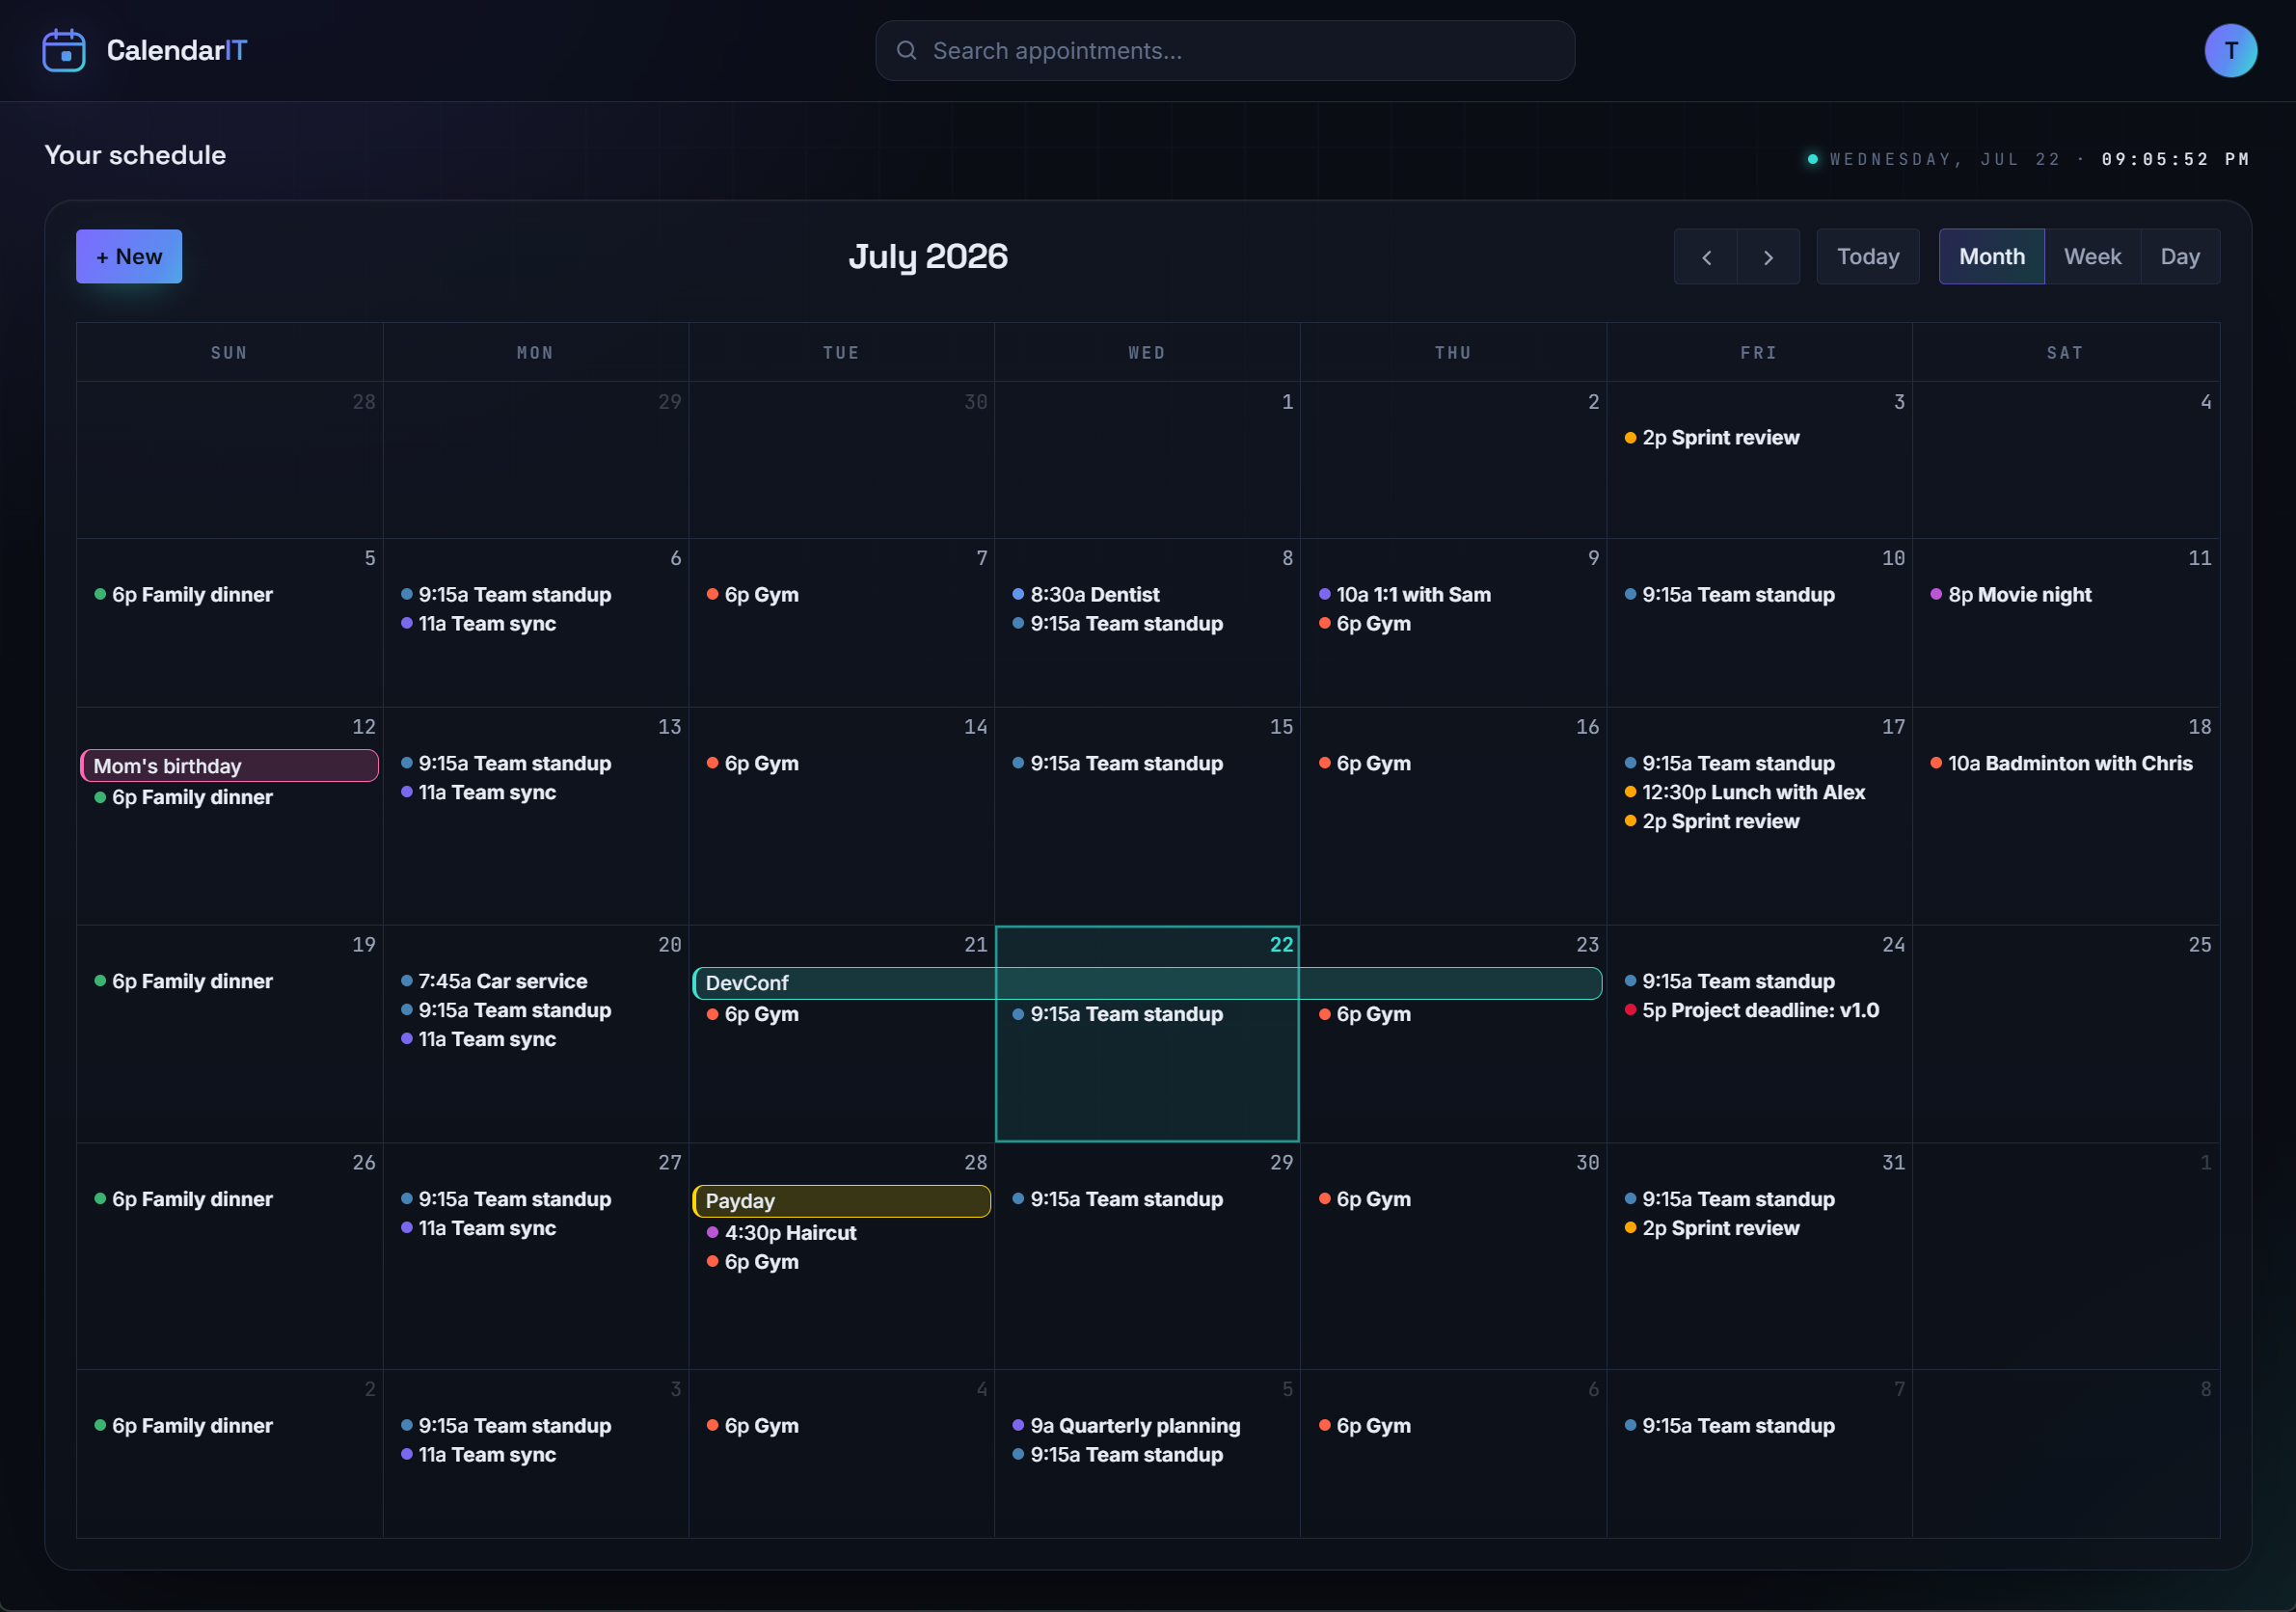
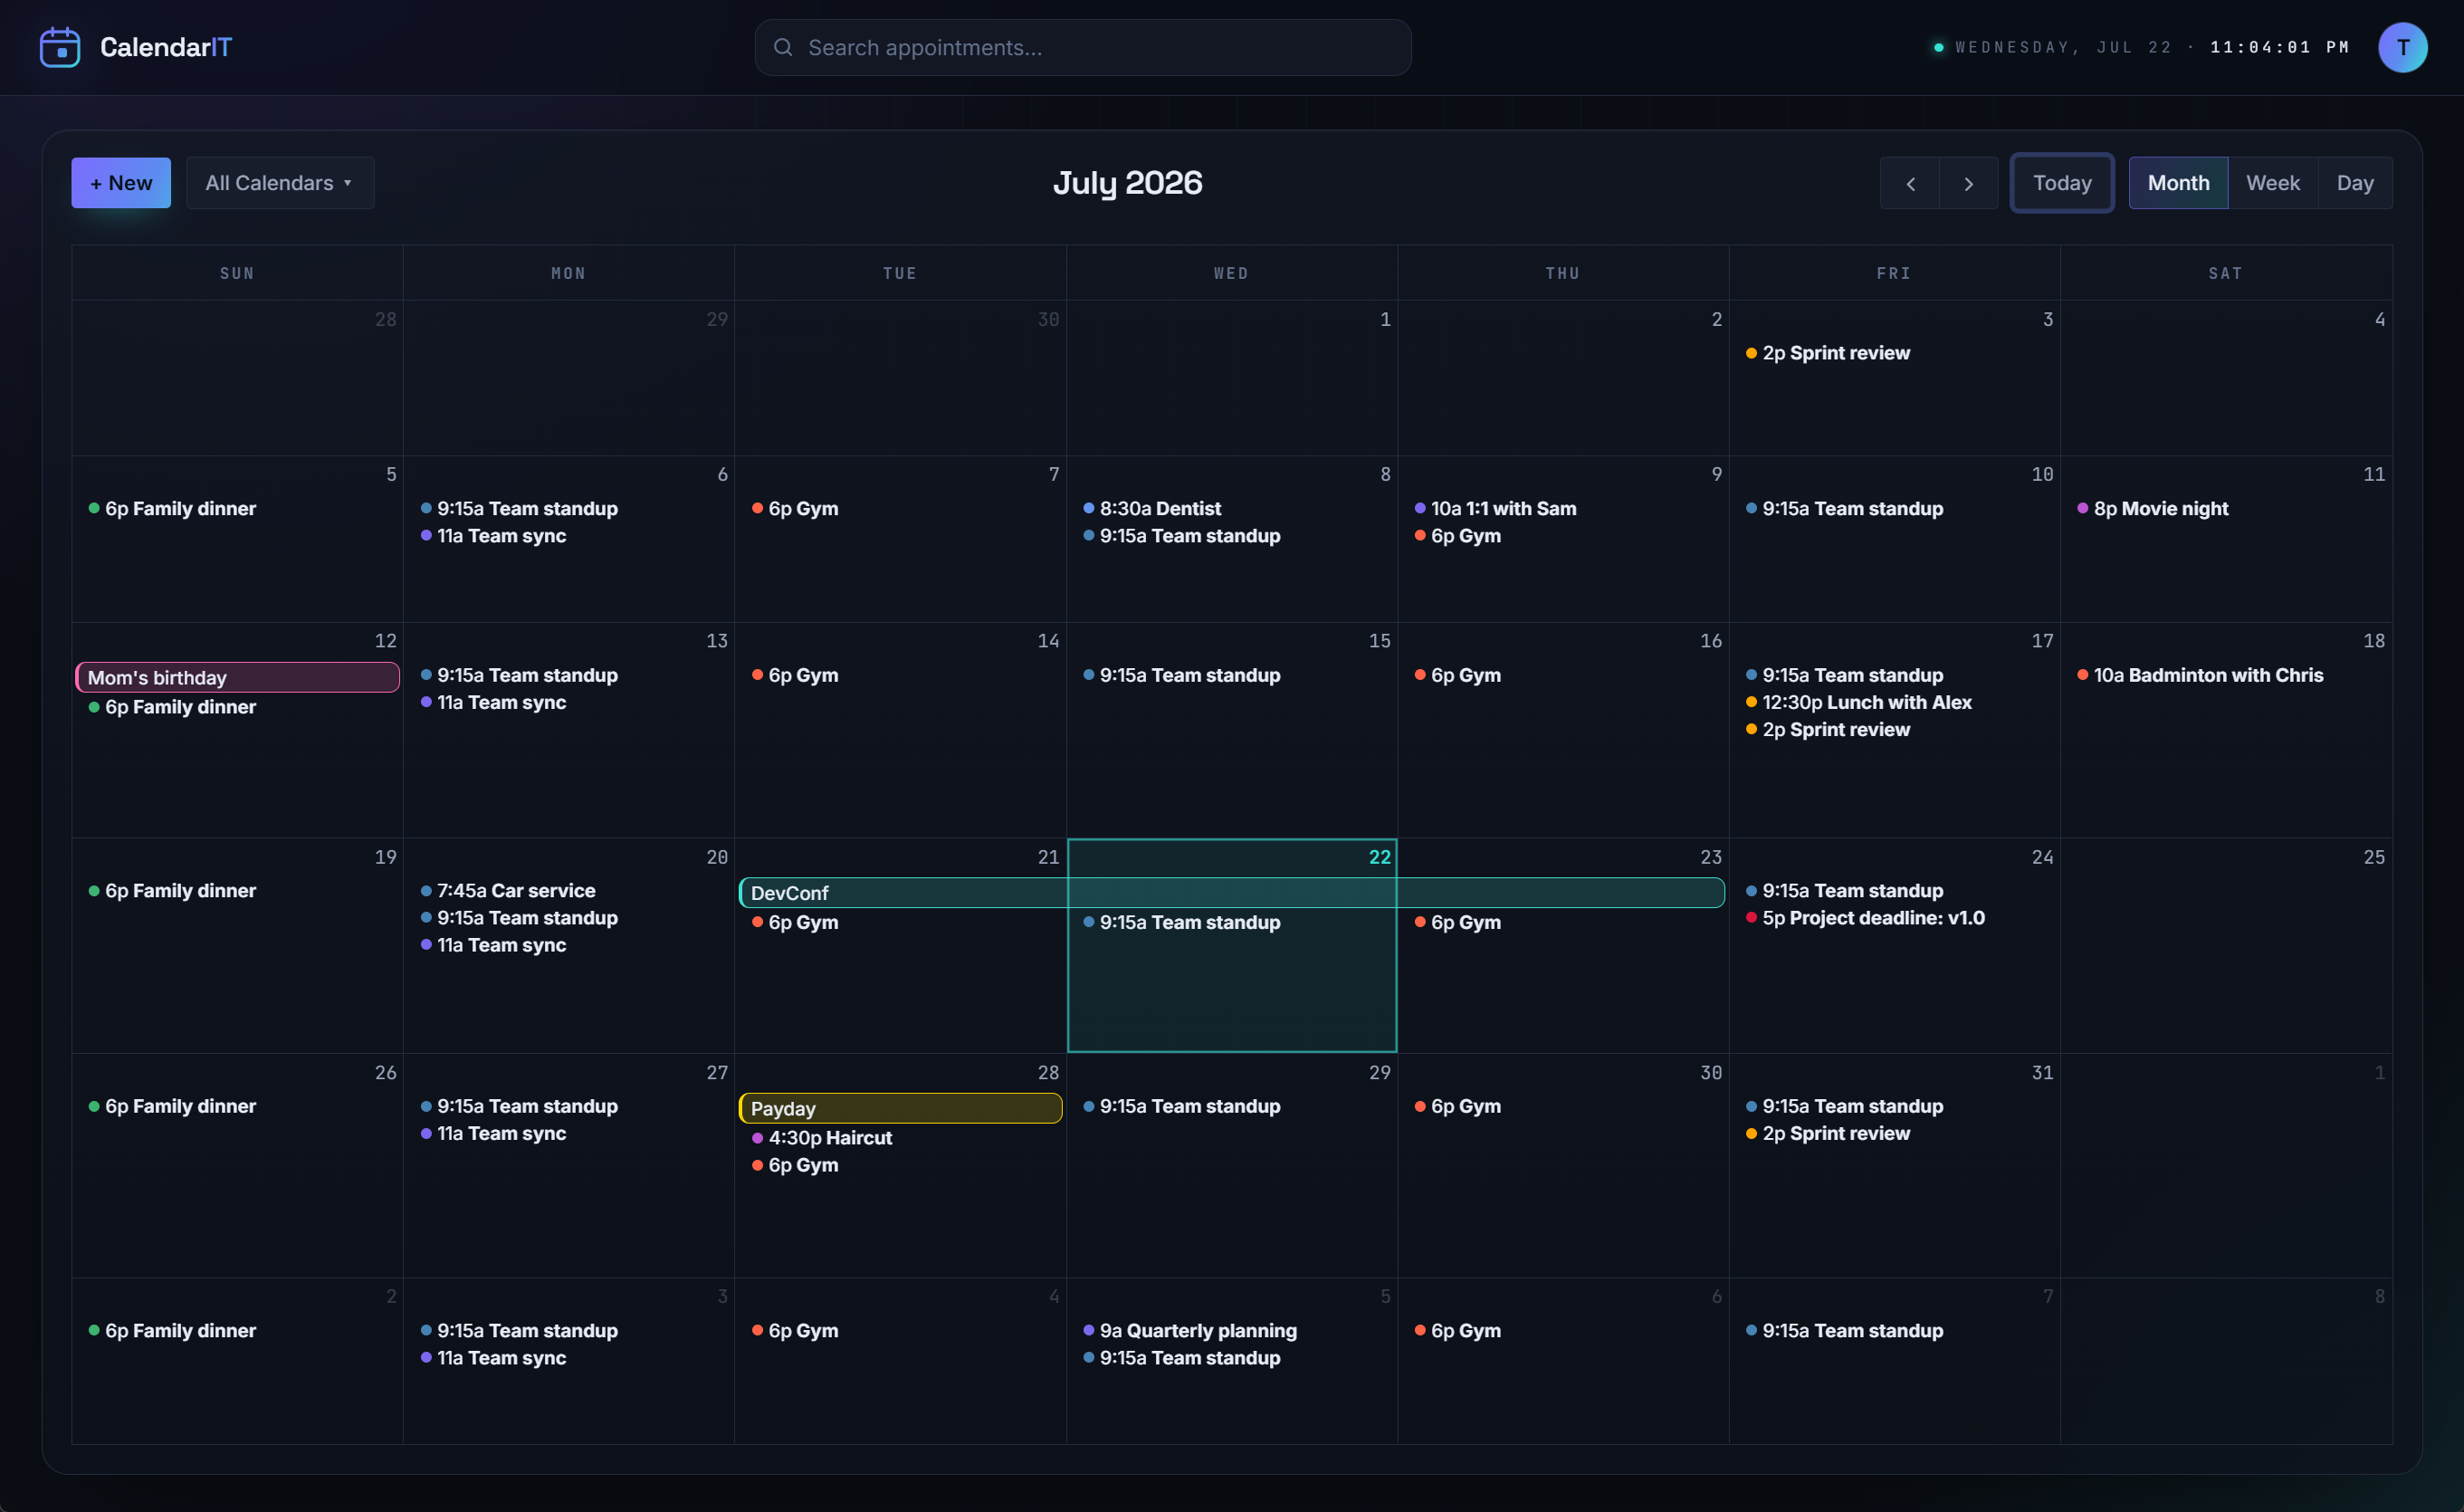
UI: removed usless UI space

diff --git a/web/src/App.tsx b/web/src/App.tsx
@@ -1,8 +1,7 @@
-import { useEffect, useRef, useState } from 'react'
+import { useEffect, useState } from 'react'
 import { useMutation, useQuery } from '@tanstack/react-query'
 import { api } from './api/client'
 import { getProfile } from './api/profile'
-import { listCalendars } from './api/calendars'
 import { getVisibleCalendars, saveVisibleCalendars } from './prefs'
 import { getTokens, setTokens, type AuthTokens } from './auth/authStorage'
 import CalendarView from './CalendarView'
@@ -67,6 +66,7 @@ export default function App() {
           <SearchBar onPick={(date) => setFocus((f) => ({ date, n: (f?.n ?? 0) + 1 }))} />
         </div>
         <div className="header-actions">
+          <LiveDateTime />
           <ProfileMenu
             email={profile?.email}
             avatarUrl={profile?.avatarDataUrl}
@@ -76,111 +76,24 @@ export default function App() {
         </div>
       </header>
       <main className="app-main">
-        <div className="section-lead">
-          <CalendarSwitcher
-            visible={visibleCals}
-            onChange={(ids) => {
+        <section className="calendar-shell">
+          <CalendarView
+            focus={focus}
+            serverView={profile?.defaultView ?? null}
+            visibleCalendarIds={visibleCals}
+            onChangeVisible={(ids) => {
               setVisibleCals(ids)
               saveVisibleCalendars(ids)
             }}
             onManage={() => setSettingsSection('calendars')}
           />
-          <LiveDateTime />
-        </div>
-        <section className="calendar-shell">
-          <CalendarView focus={focus} serverView={profile?.defaultView ?? null} visibleCalendarIds={visibleCals} />
         </section>
       </main>
     </div>
   )
 }
 
-/**
- * The section heading is the calendar switcher: shows which calendars are on screen
- * ("All calendars", one name, or "2 of 3") and opens a dropdown with per-calendar
- * visibility toggles. Managing (create/rename/delete) lives in Settings → Calendars.
- */
-function CalendarSwitcher({
-  visible,
-  onChange,
-  onManage,
-}: {
-  visible: string[] | null
-  onChange: (ids: string[] | null) => void
-  onManage: () => void
-}) {
-  const [open, setOpen] = useState(false)
-  const rootRef = useRef<HTMLDivElement>(null)
-  const { data: calendars = [] } = useQuery({ queryKey: ['calendars'], queryFn: listCalendars })
-
-  useEffect(() => {
-    if (!open) return
-    const onDown = (e: MouseEvent) => {
-      if (!rootRef.current?.contains(e.target as Node)) setOpen(false)
-    }
-    const onKey = (e: KeyboardEvent) => e.key === 'Escape' && setOpen(false)
-    document.addEventListener('mousedown', onDown)
-    window.addEventListener('keydown', onKey)
-    return () => {
-      document.removeEventListener('mousedown', onDown)
-      window.removeEventListener('keydown', onKey)
-    }
-  }, [open])
-
-  const isVisible = (id: string) => visible === null || visible.includes(id)
-  const shownCount = visible === null ? calendars.length : calendars.filter((c) => visible.includes(c.id)).length
-
-  const label =
-    calendars.length <= 1
-      ? (calendars[0]?.name ?? 'Your schedule')
-      : visible === null || shownCount === calendars.length
-        ? 'All calendars'
-        : shownCount === 1
-          ? (calendars.find((c) => isVisible(c.id))?.name ?? 'Your schedule')
-          : `${shownCount} of ${calendars.length} calendars`
-
-  const toggle = (id: string) => {
-    const next = calendars.filter((c) => (c.id === id ? !isVisible(c.id) : isVisible(c.id))).map((c) => c.id)
-    if (next.length === 0) return // never blank the whole view
-    onChange(next.length === calendars.length ? null : next)
-  }
-
-  return (
-    <div className="cal-switcher" ref={rootRef}>
-      <button type="button" className="cal-switcher-btn" onClick={() => setOpen((v) => !v)} aria-expanded={open}>
-        <h2>{label}</h2>
-        {calendars.length > 1 && (
-          <svg width="14" height="14" viewBox="0 0 24 24" fill="none" stroke="currentColor" strokeWidth="2" strokeLinecap="round" strokeLinejoin="round" aria-hidden="true">
-            <path d="M6 9l6 6 6-6" />
-          </svg>
-        )}
-      </button>
-
-      {open && calendars.length > 1 && (
-        <div className="cal-switcher-menu">
-          <button type="button" className="cal-switcher-item" onClick={() => onChange(null)}>
-            <span className={'cal-check' + (visible === null || shownCount === calendars.length ? ' on' : '')} />
-            All calendars
-          </button>
-          <div className="cal-switcher-divider" />
-          {calendars.map((c) => (
-            <button key={c.id} type="button" className="cal-switcher-item" onClick={() => toggle(c.id)}>
-              <span className={'cal-check' + (isVisible(c.id) ? ' on' : '')} />
-              <span className="cal-switcher-name">{c.name}</span>
-              <span className="cal-switcher-count">{c.eventCount}</span>
-            </button>
-          ))}
-          <div className="cal-switcher-divider" />
-          <button type="button" className="cal-switcher-item cal-switcher-manage" onClick={() => { setOpen(false); onManage() }}>
-            Manage calendars…
-          </button>
-        </div>
-      )}
-    </div>
-  )
-}
-
-// Live weekday + date + ticking clock, on the right of the section header. Kept in its own
+// Live weekday + date + ticking clock, on the right of the header. Kept in its own
 // component so the per-second tick re-renders only this span, not the calendar below it.
 function LiveDateTime() {
   const [now, setNow] = useState(() => new Date())

diff --git a/web/src/CalendarView.tsx b/web/src/CalendarView.tsx
@@ -110,11 +110,17 @@ export default function CalendarView({
   focus,
   serverView,
   visibleCalendarIds,
+  onChangeVisible,
+  onManage,
 }: {
   focus?: { date: string; n: number } | null
   serverView?: string | null
   /** Calendars to show; null/undefined = all of them. */
   visibleCalendarIds?: string[] | null
+  /** Called when the user toggles calendar visibility in the toolbar picker. */
+  onChangeVisible?: (ids: string[] | null) => void
+  /** Opens Settings → Calendars ("Manage calendars…"). */
+  onManage?: () => void
 }) {
   const queryClient = useQueryClient()
   const [range, setRange] = useState<{ from: string; to: string } | null>(null)
@@ -135,6 +141,25 @@ export default function CalendarView({
   // New events land in the first visible calendar (or the first one overall).
   const defaultCalendarId = () =>
     calendars.find((c) => !visibleCalendarIds || visibleCalendarIds.includes(c.id))?.id ?? calendars[0]?.id
+
+  // Calendar visibility picker, anchored to its toolbar button.
+  const [calPop, setCalPop] = useState<{ x: number; y: number } | null>(null)
+  const isCalVisible = (id: string) => !visibleCalendarIds || visibleCalendarIds.includes(id)
+  const shownCount = calendars.filter((c) => isCalVisible(c.id)).length
+  const calPickerLabel =
+    calendars.length <= 1
+      ? (calendars[0]?.name ?? 'Calendars')
+      : shownCount === calendars.length
+        ? 'All calendars ▾'
+        : shownCount === 1
+          ? `${calendars.find((c) => isCalVisible(c.id))?.name} ▾`
+          : `${shownCount} of ${calendars.length} ▾`
+
+  const toggleCal = (id: string) => {
+    const next = calendars.filter((c) => (c.id === id ? !isCalVisible(c.id) : isCalVisible(c.id))).map((c) => c.id)
+    if (next.length === 0) return // never blank the whole view
+    onChangeVisible?.(next.length === calendars.length ? null : next)
+  }
 
   const [draft, setDraft] = useState<EventDraft | null>(null)
   const [menu, setMenu] = useState<ContextMenu | null>(null)
@@ -199,7 +224,7 @@ export default function CalendarView({
   useEffect(() => {
     const onKey = (e: KeyboardEvent) => {
       if (e.key !== 'ArrowLeft' && e.key !== 'ArrowRight') return
-      if (draft || menu || yearPop) return // don't steal keys from the editor / popovers
+      if (draft || menu || yearPop || calPop) return // don't steal keys from the editor / popovers
       if (e.metaKey || e.ctrlKey || e.altKey) return
       const target = e.target as HTMLElement | null
       const tag = target?.tagName
@@ -212,7 +237,21 @@ export default function CalendarView({
     }
     window.addEventListener('keydown', onKey)
     return () => window.removeEventListener('keydown', onKey)
-  }, [draft, menu, yearPop])
+  }, [draft, menu, yearPop, calPop])
+
+  useEffect(() => {
+    if (!calPop) return
+    const close = () => setCalPop(null)
+    const onKey = (e: KeyboardEvent) => e.key === 'Escape' && setCalPop(null)
+    window.addEventListener('scroll', close, true)
+    window.addEventListener('resize', close)
+    window.addEventListener('keydown', onKey)
+    return () => {
+      window.removeEventListener('scroll', close, true)
+      window.removeEventListener('resize', close)
+      window.removeEventListener('keydown', onKey)
+    }
+  }, [calPop])
 
   // Clicking the toolbar title ("August 2026") opens a small popover to jump years.
   // FullCalendar owns the toolbar DOM, so the listener is delegated from the document.
@@ -425,9 +464,16 @@ export default function CalendarView({
         customButtons={{
           addEvent: { text: '+  New', click: openNew },
           todaySelect: { text: 'today', click: goToday },
+          calPicker: {
+            text: calPickerLabel,
+            click: (_ev, element) => {
+              const rect = element.getBoundingClientRect()
+              setCalPop((p) => (p ? null : { x: rect.left, y: rect.bottom + 6 }))
+            },
+          },
         }}
         headerToolbar={{
-          left: 'addEvent',
+          left: 'addEvent calPicker',
           center: 'title',
           right: 'prev,next todaySelect dayGridMonth,timeGridWeek,timeGridDay',
         }}
@@ -495,6 +541,51 @@ export default function CalendarView({
                 )}
               </>
             )}
+          </div>
+        </div>
+      )}
+
+      {calPop && (
+        <div
+          className="ctx-backdrop"
+          onMouseDown={() => setCalPop(null)}
+          onContextMenu={(e) => {
+            e.preventDefault()
+            setCalPop(null)
+          }}
+        >
+          <div
+            className="cal-switcher-menu"
+            style={{ position: 'fixed', left: calPop.x, top: calPop.y }}
+            onMouseDown={(e) => e.stopPropagation()}
+          >
+            {calendars.length > 1 && (
+              <>
+                <button type="button" className="cal-switcher-item" onClick={() => onChangeVisible?.(null)}>
+                  <span className={'cal-check' + (shownCount === calendars.length ? ' on' : '')} />
+                  All calendars
+                </button>
+                <div className="cal-switcher-divider" />
+                {calendars.map((c) => (
+                  <button key={c.id} type="button" className="cal-switcher-item" onClick={() => toggleCal(c.id)}>
+                    <span className={'cal-check' + (isCalVisible(c.id) ? ' on' : '')} />
+                    <span className="cal-switcher-name">{c.name}</span>
+                    <span className="cal-switcher-count">{c.eventCount}</span>
+                  </button>
+                ))}
+                <div className="cal-switcher-divider" />
+              </>
+            )}
+            <button
+              type="button"
+              className="cal-switcher-item cal-switcher-manage"
+              onClick={() => {
+                setCalPop(null)
+                onManage?.()
+              }}
+            >
+              Manage calendars…
+            </button>
           </div>
         </div>
       )}

diff --git a/web/src/App.css b/web/src/App.css
@@ -931,49 +931,14 @@
   box-shadow: var(--shadow-card);
 }
 
-.section-lead {
-  display: flex;
-  align-items: baseline;
-  justify-content: space-between;
-  gap: 1rem;
-  margin-bottom: 1.1rem;
+/* The live date + clock now sits in the header, just left of the profile menu. */
+.header-actions .eyebrow {
+  margin-right: 0.6rem;
+  white-space: nowrap;
 }
 
-.section-lead h2 {
-  font-family: var(--font-display);
-  font-size: 1.05rem;
-  font-weight: 500;
-  margin: 0;
-  color: var(--text);
-}
-
-/* Calendar switcher — the section heading doubles as a visibility dropdown. */
-.cal-switcher {
-  position: relative;
-}
-
-.cal-switcher-btn {
-  display: flex;
-  align-items: center;
-  gap: 0.4rem;
-  border: none;
-  background: transparent;
-  color: var(--text-dim);
-  padding: 0.15rem 0.45rem;
-  margin-left: -0.45rem;
-  border-radius: 8px;
-  cursor: pointer;
-  transition: background 0.12s;
-}
-
-.cal-switcher-btn:hover {
-  background: var(--surface-2);
-}
-
+/* Calendar visibility picker — a popover anchored to its toolbar button. */
 .cal-switcher-menu {
-  position: absolute;
-  top: calc(100% + 6px);
-  left: 0;
   min-width: 220px;
   padding: 5px;
   display: flex;